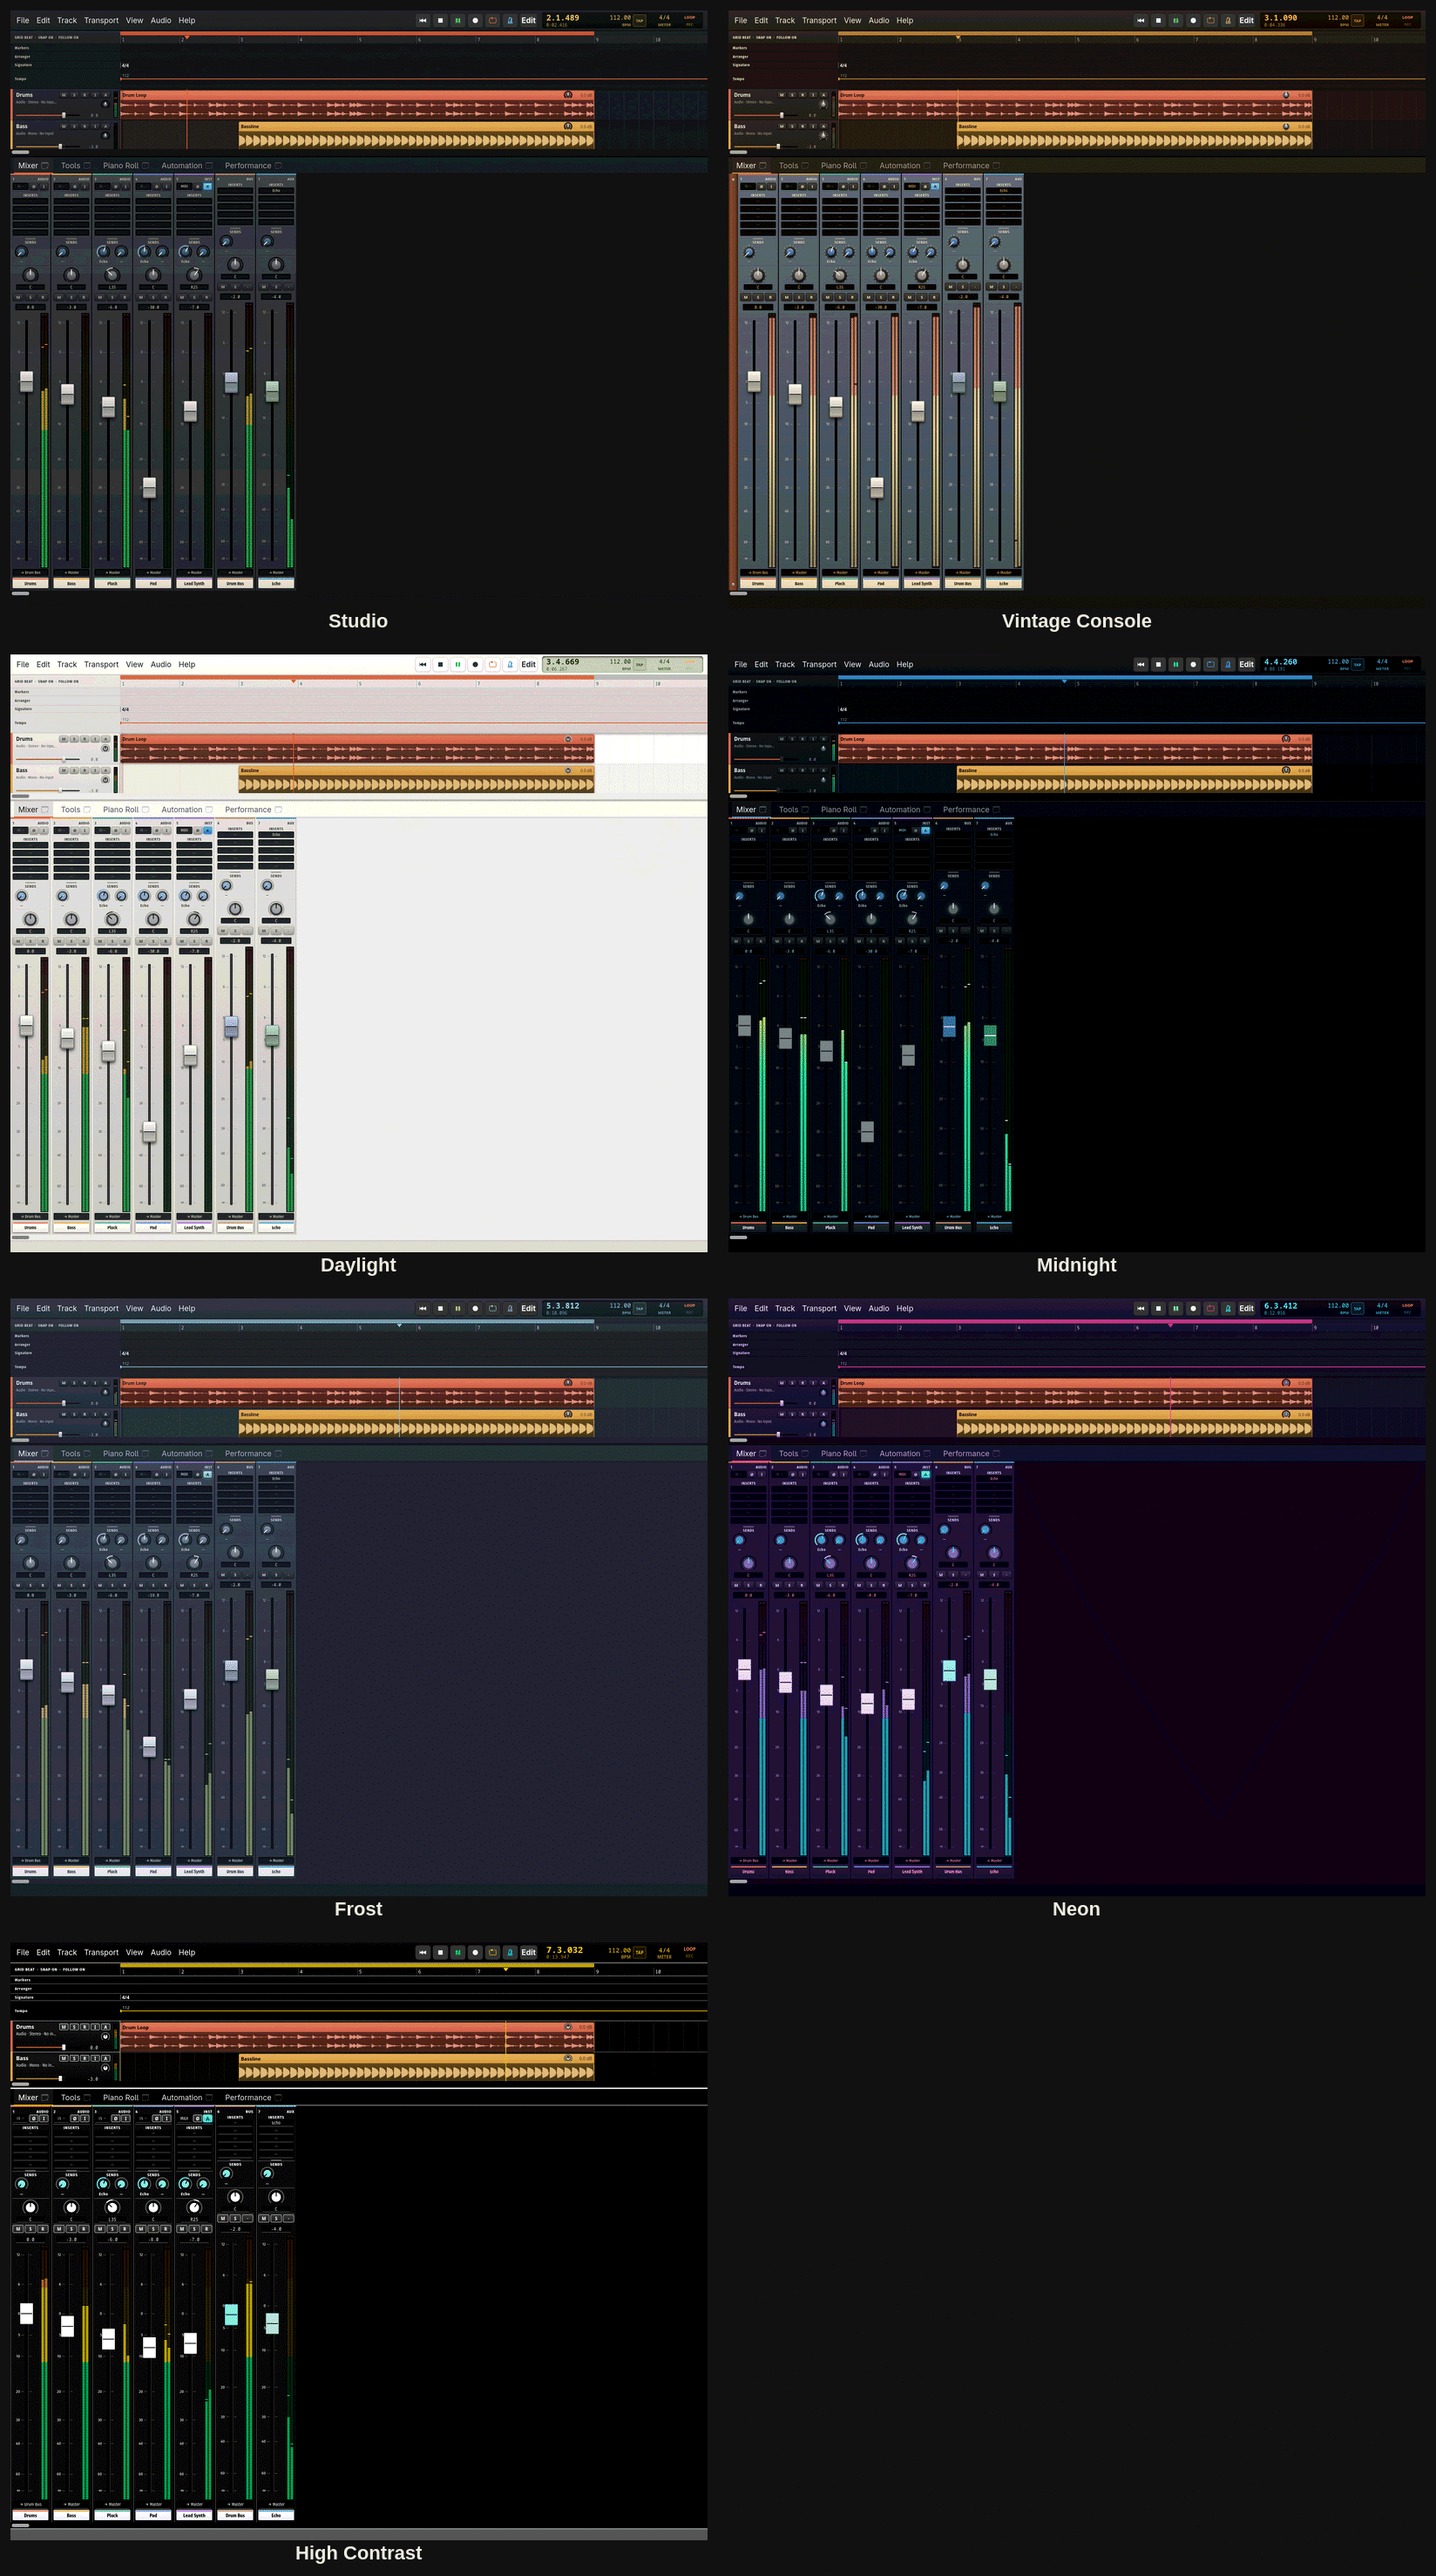
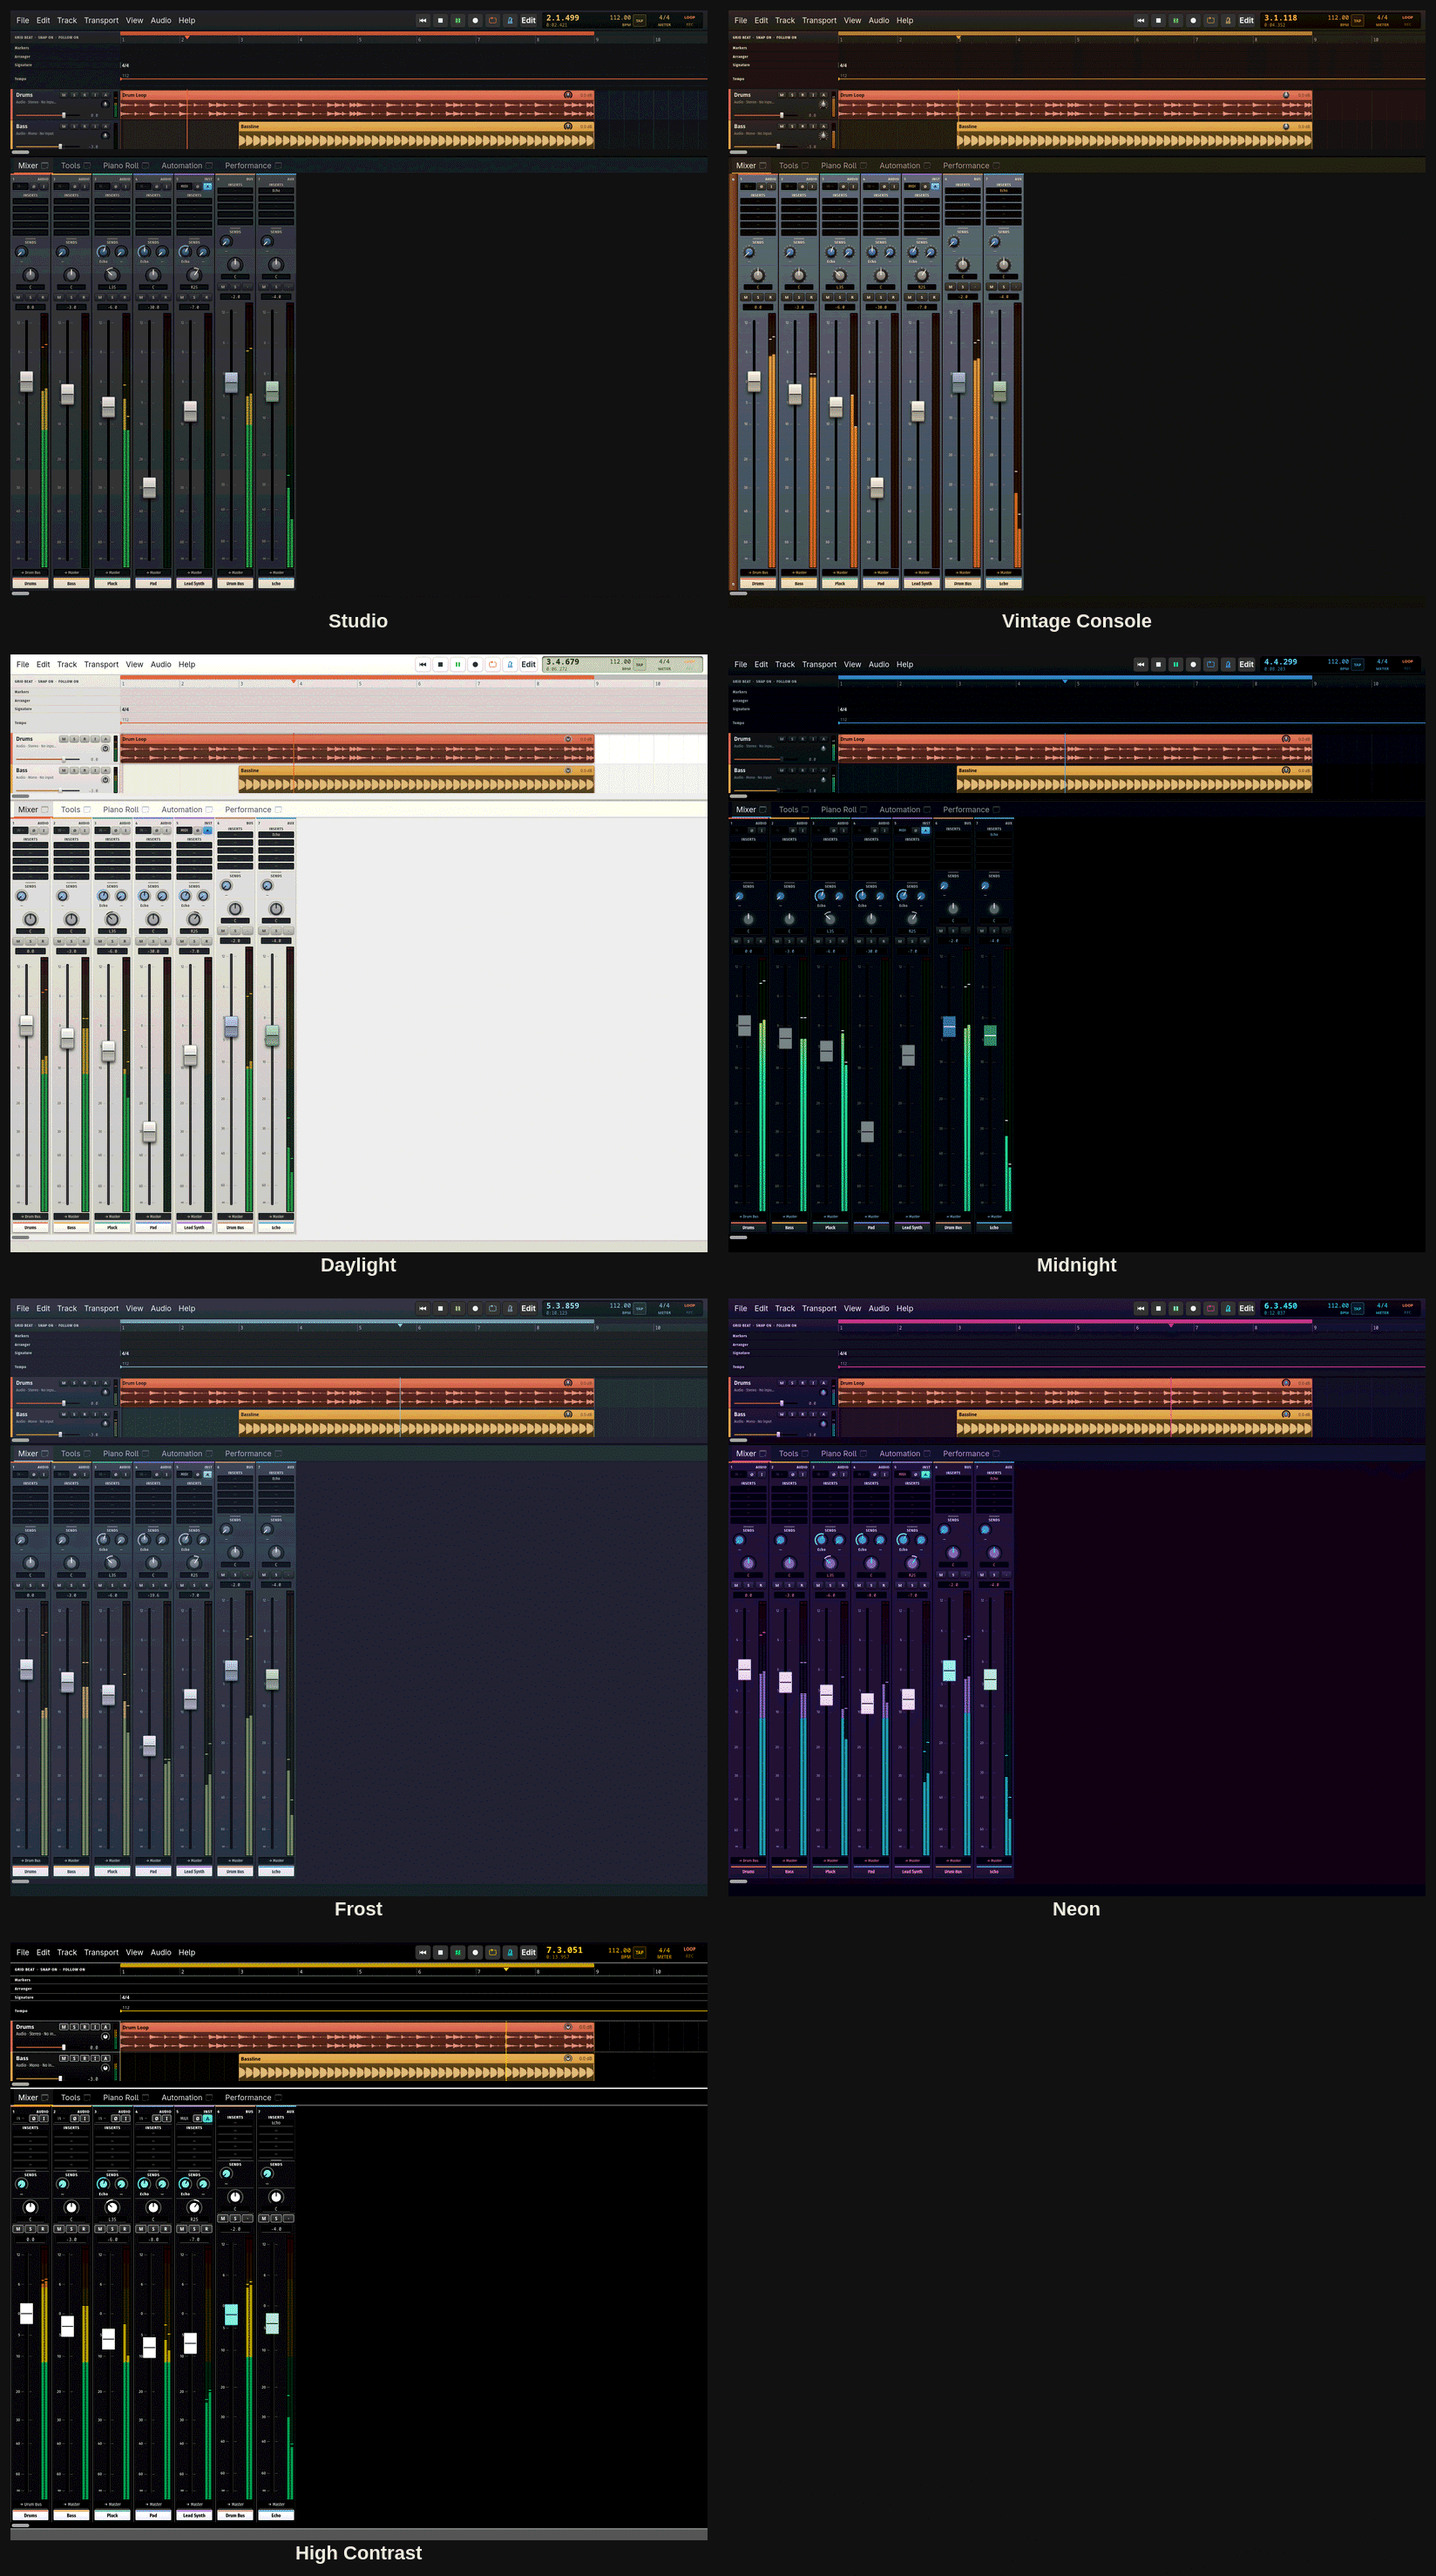
Vintage Console: legible plasma bar-graph meters
The edgewise VU needles of the Vintage Console skin did not read at the
size of mixer strips and track headers: every meter looked like a static
cream face. The skin now uses a new MeterKind::Plasma — a glowing
neon-orange column up to the level with fine cell lines, red above
-2 dBFS, a dim unlit column and a peak-hold mark. The theme gallery is
updated.

Claude-Session: https://claude.ai/code/session_016ACA3h9Xm4rTgvjXC2vUiY

Changed region(s): [[0.5261, 0.1245, 0.7118, 0.2179]]

diff --git a/crates/faderframe-ui-canvas/src/controls.rs b/crates/faderframe-ui-canvas/src/controls.rs
@@ -498,6 +498,7 @@ pub fn meter(p: &mut dyn Painter, rect: Rect, levels: &[MeterLevel], theme: &The
         MeterKind::Ladder => ladder_meter(p, rect, levels, theme),
         MeterKind::Bar => bar_meter(p, rect, levels, theme),
         MeterKind::Edgewise => vu_meter(p, rect, levels, theme),
+        MeterKind::Plasma => plasma_meter(p, rect, levels, theme),
     }
 }
 
@@ -569,6 +570,51 @@ fn bar_meter(p: &mut dyn Painter, rect: Rect, levels: &[MeterLevel], theme: &The
         if hold > 0.01 {
             let y = body.bottom() - body.h * hold;
             p.fill(Rect::new(body.x, y - 1.0, body.w, 2.0), m.peak);
+        }
+    }
+}
+
+/// Gas-plasma bar graphs: each channel a glowing column up to its level
+/// (zone colours from the theme), with fine dark lines across it like the
+/// discharge cells of a plasma display, a dimly lit unlit part and a peak
+/// hold mark.
+fn plasma_meter(p: &mut dyn Painter, rect: Rect, levels: &[MeterLevel], theme: &Theme) {
+    let m = &theme.console.meter;
+    p.fill_rounded(rect, 2.0, &Paint::Solid(m.background));
+    let y = |db: f32| 1.0 - meter_scale(db);
+    for (lv, (clip, body)) in levels.iter().zip(meter_columns(rect, levels.len())) {
+        clip_led(p, clip, lv.clipped, theme);
+        let zones = vec![
+            (0.0, m.red),
+            (y(-2.0), m.orange),
+            (y(-18.0), m.yellow),
+            (1.0, m.green),
+        ];
+        // The unlit cells glow faintly.
+        let dim: Vec<(f32, Color)> = zones
+            .iter()
+            .map(|(t, c)| (*t, c.mix(m.background, 1.0 - m.unlit)))
+            .collect();
+        p.fill_rect(body, &Paint::vertical_stops(body, dim));
+        let lit = meter_scale(lv.level_db);
+        if lit > 0.0 {
+            let top = body.bottom() - body.h * lit;
+            let fill = Rect::new(body.x, top, body.w, body.bottom() - top);
+            p.shadow(fill, 1.0, m.orange.with_alpha(0.45), 0.0, 0.0, 4.0);
+            p.fill_rect(fill, &Paint::vertical_stops(body, zones));
+        }
+        // Cell lines.
+        let pitch = (m.segment + m.gap).max(2.0);
+        let line = m.background.with_alpha(0.55);
+        let mut yy = body.bottom() - pitch;
+        while yy > body.y {
+            p.fill(Rect::new(body.x, yy, body.w, m.gap.clamp(0.6, 1.2)), line);
+            yy -= pitch;
+        }
+        let hold = meter_scale(lv.hold_db);
+        if hold > 0.01 {
+            let yh = body.bottom() - body.h * hold;
+            p.fill(Rect::new(body.x, yh - 1.0, body.w, 2.0), m.peak);
         }
     }
 }

diff --git a/crates/faderframe-ui-canvas/src/themes.rs b/crates/faderframe-ui-canvas/src/themes.rs
@@ -318,7 +318,7 @@ pub fn daylight() -> Theme {
 }
 
 /// "Vintage": a 1970s console — enamel panels, bakelite skirted knobs,
-/// edgewise VU meters, walnut cheeks, amber displays.
+/// plasma bar-graph meters, walnut cheeks, amber displays.
 pub fn vintage() -> Theme {
     build(Spec {
         id: "vintage",
@@ -345,7 +345,8 @@ pub fn vintage() -> Theme {
         knob_caps: [0x3f6ea8, 0x9a9488, 0xa8352d],
         fader: [0x0a0807, 0xf3efe6, 0x9b9385, 0xe6dcc3],
         fader_caps: [0xefe7d6, 0x3f6ea8, 0x5f9a6a, 0xb53a31],
-        meter: ([0x0c0a08, 0x69c46b, 0xe9c049, 0xef8b3a, 0xe8442f], 0.14),
+        // Neon-orange plasma: amber low, brighter towards 0 dBFS, red over.
+        meter: ([0x100806, 0xe9732a, 0xff9a3c, 0xffc35e, 0xff3b24], 0.13),
         leds: [0xf0b33a, 0x69c46b, 0xff4b3b, 0x6fb1e8, 0xcf9be8],
         led_off: [0x3b342c, 0xe8dcc0, 0x0c0a08],
         scribble: (0xefe2bd, 0x2a2114),
@@ -364,7 +365,7 @@ pub fn vintage() -> Theme {
             brushed: 0.45,
             screws: true,
             wood: Some((c(0x8a5530), c(0x4f2d17))),
-            meter: MeterKind::Edgewise,
+            meter: MeterKind::Plasma,
             engrave: Color::rgba(0.0, 0.0, 0.0, 0.6),
             flat: false,
         },

diff --git a/crates/faderframe-ui-canvas/src/theme.rs b/crates/faderframe-ui-canvas/src/theme.rs
@@ -88,6 +88,8 @@ pub enum MeterKind {
     Bar,
     /// Edgewise moving-coil VU meter (0 VU = −18 dBFS).
     Edgewise,
+    /// Gas-plasma bar graph: a glowing column with fine lines across it.
+    Plasma,
 }
 
 /// How console controls are drawn beyond their colours.

diff --git a/docs/ARCHITECTURE.md b/docs/ARCHITECTURE.md
@@ -914,8 +914,9 @@ the event loop. DAW work surfaces are **custom-rendered views**:
   (light), Midnight, Frost, Neon and High Contrast. Besides colours a theme
   has a `ConsoleLook`: skirted knobs (with or without a value ring), flat
   or glossy controls, brushed-metal panel grain, screws, walnut cheeks
-  framing the mixer, and the meter kind — LED ladder, continuous bar or an
-  edgewise VU meter (0 VU = −18 dBFS, voltage-proportional scale). The
+  framing the mixer, and the meter kind — LED ladder, continuous bar,
+  plasma bar graph (a glowing column with cell lines) or an edgewise VU
+  meter (0 VU = −18 dBFS, voltage-proportional scale). The
   shell switches skins live (`AppState::set_theme`: every canvas view gets
   `CanvasView::set_theme`, GTK's stylesheet is regenerated from the theme
   as `@define-color`s, and the Adwaita light/dark variant follows the

diff --git a/README.md b/README.md
@@ -31,7 +31,7 @@ phase and spectrum):
 
 Seven skins, switched live (View → Theme or Preferences → General → Theme):
 Studio, Vintage Console (walnut cheeks, enamel panels, skirted knobs,
-edgewise VU meters), Daylight (light), Midnight, Frost, Neon and High
+plasma bar-graph meters), Daylight (light), Midnight, Frost, Neon and High
 Contrast:
 
 ![The seven skins](docs/screenshots/themes.png)
